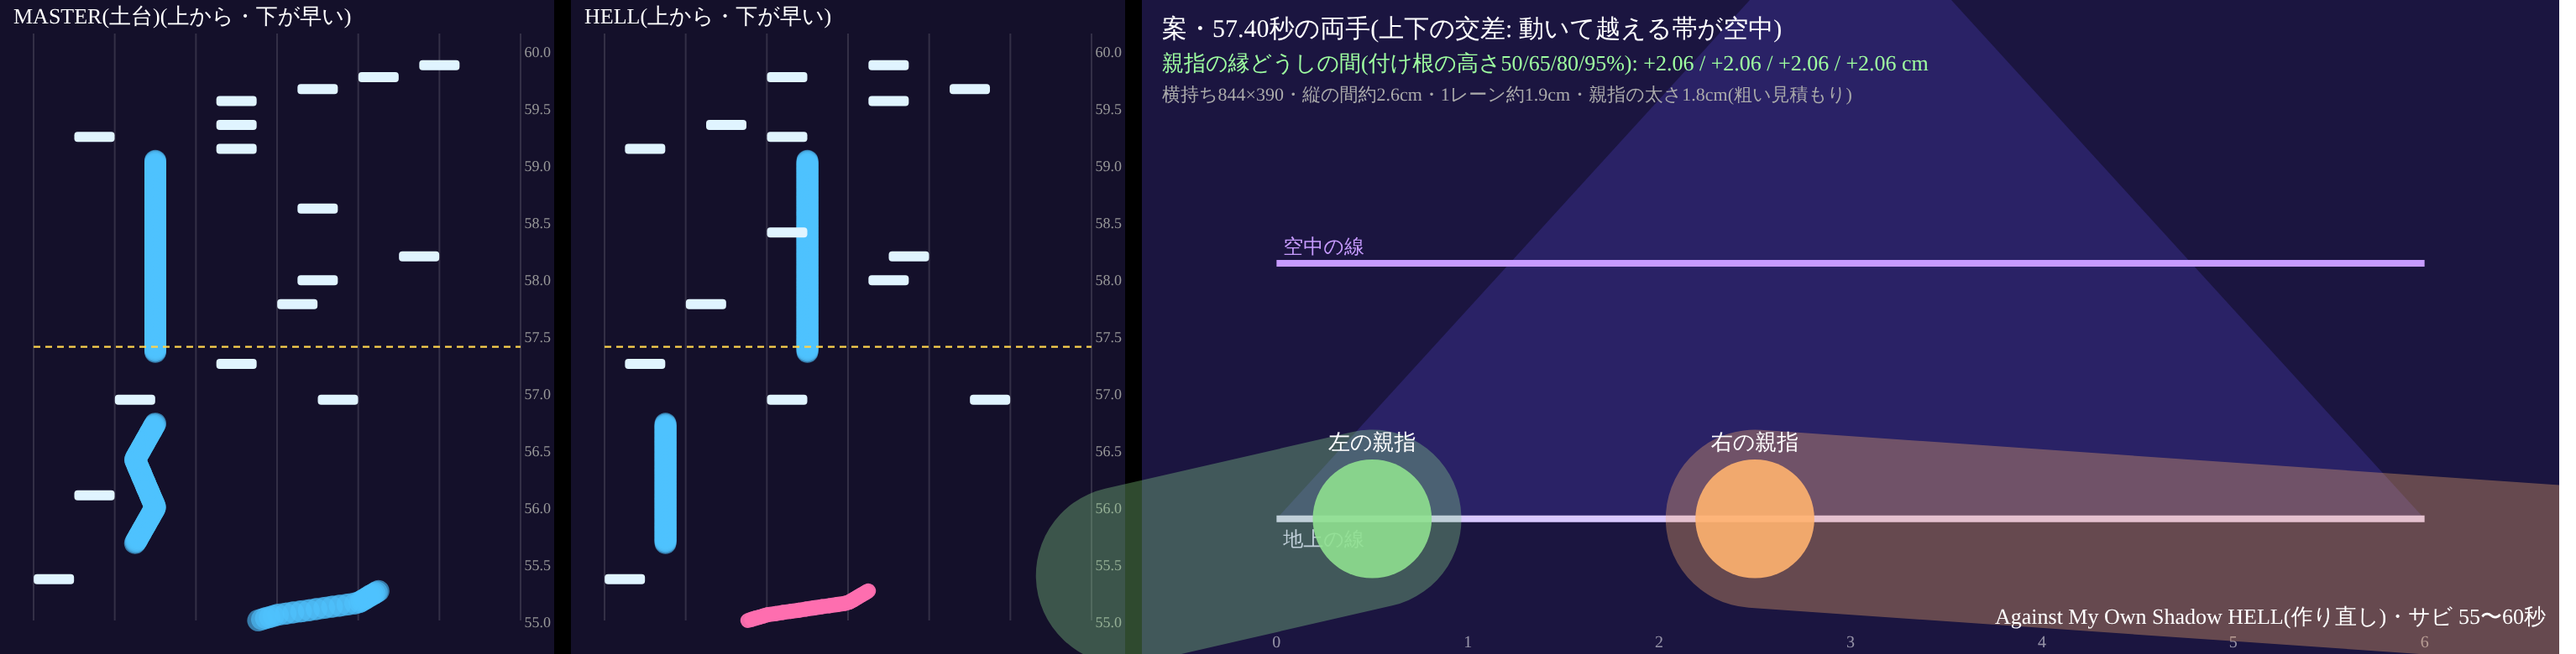
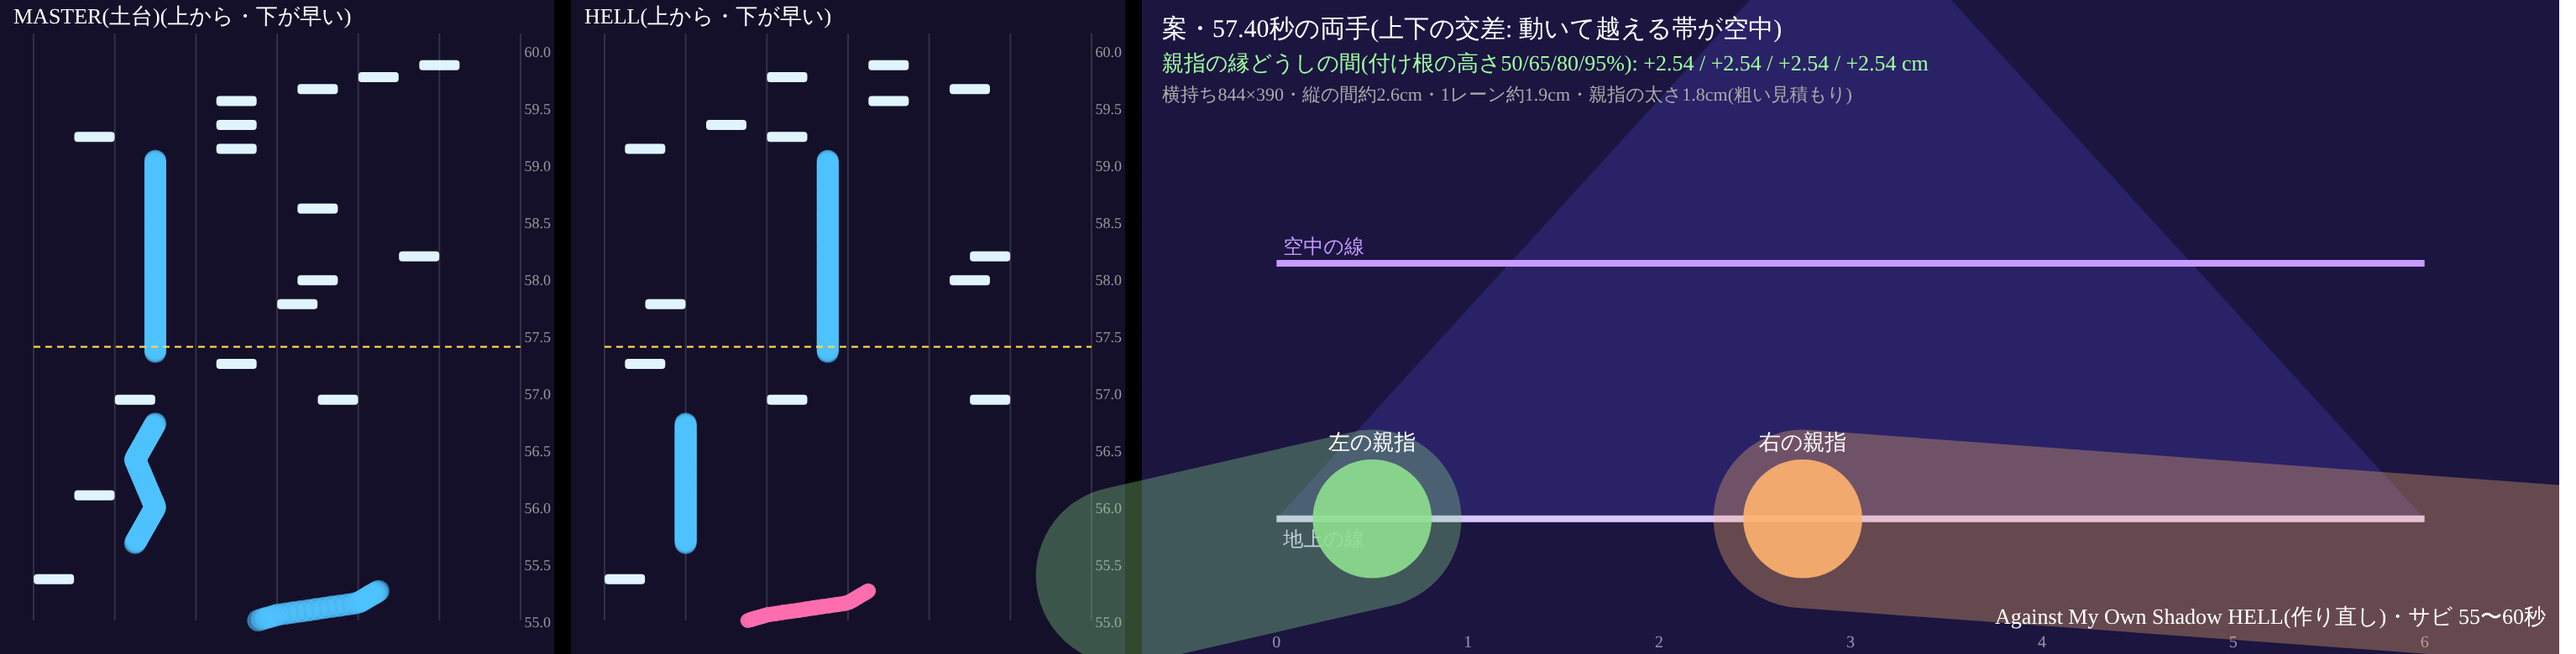
作り直した Against My Own Shadow の HELL の静止画と説明
Claude-Session: https://claude.ai/code/session_01WaDzrhPE2Q6PDmeAgFPTwG

diff --git a/docs/playbot/shots/2026-10-13-gl-hell-cross/README.md b/docs/playbot/shots/2026-10-13-gl-hell-cross/README.md
@@ -133,3 +133,13 @@
 - テンポくんの bot(版3・持ち替えなし): 交差の中の MISS 0。通しの MISS は 親指3・内寄り5・ふつう0(どれも地上。97.70秒など MASTER と同じ置き方の所)。
   交差の指の近さ: ① 104〜203px/② 指先どうし 116〜129px・右の指先↔左の親指の軸 87・75・94px(内寄りの人だけ目安のやや下)/③ 109〜198px
 - 静止画: `aomos-1.png`・`aomos-2.png`・`aomos-3.png`(左から 土台の MASTER/HELL の上から見た譜面/交わっている瞬間の両手)
+
+## Against My Own Shadow の HELL を一から作り直した(社長「ヘル用に作り直して」・2026-10-13 夕方・公開前)
+- 上の節の HELL(MASTER の写し+空中・Lv.36)は取り下げ、**曲の解析から HELL 用に一から作った**譜面に差し替えた(試作の枠 `against_my_own_shadow_hell_debug` のまま・公開しない)
+- 作り方: `rhythm-chart-v3-generate.js --difficulty HELL`(HELL の量・できることの表を足した。5難易度の出力は4曲20譜面で1バイトも変わらない)で骨組みを作り、
+  `rhythm-hell-mix.js`(曲の設定 `source:'audio'`)が空中・上下の交差・手の決まりの直しを付ける。MASTER の譜面は読まない
+- **438ノーツ・Lv.34**(新しい式。空中を地上と見なすと33)・空中タップ30・空中を含むスライド10本。手の決まり0件・水平クロス0。交差1か所(94.1〜95.0秒・上の帯が越える)
+- MASTER との違い: 同じ時刻にあるノーツは86%(同じ曲の音を叩く)だが、同じ時刻・同じ位置は17%だけ(置き方は別物)。ノーツは MASTER 397 → 438
+- テンポくんの bot(版3・持ち替えなし): 通しの MISS は親指0・内寄り1(28.12秒の速いタップの続き)・ふつう0。空中の MISS 0。交差の指先どうし 150〜217px
+  (途中で、36.29秒の右端の幅1ホールドと 97.70・98.02秒のホールドのすぐ隣のタップで MISS が重なったので、骨組みの直し方として道具に足した)
+- 静止画: `aomos-new-1.png`(36〜41秒)・`aomos-new-2.png`(サビ 55〜60秒)・`aomos-new-3.png`(交差 93〜97秒)。左から 公開中の MASTER/HELL/両手
